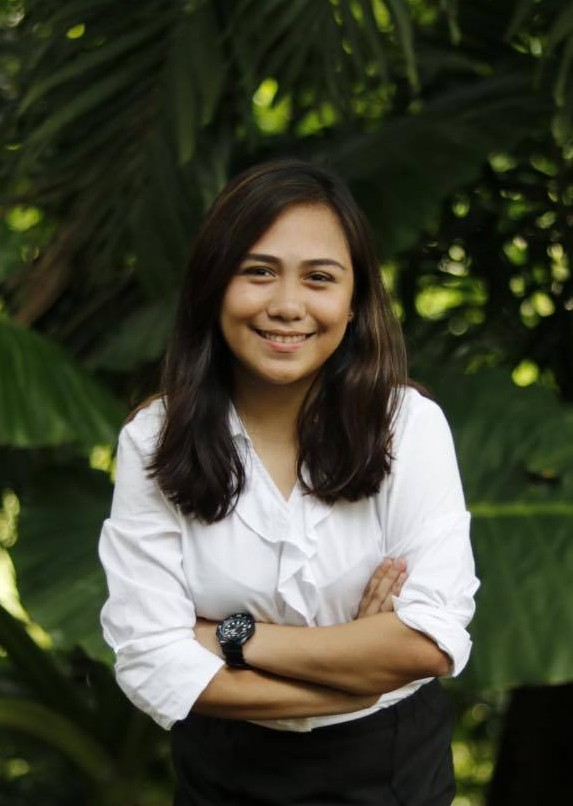
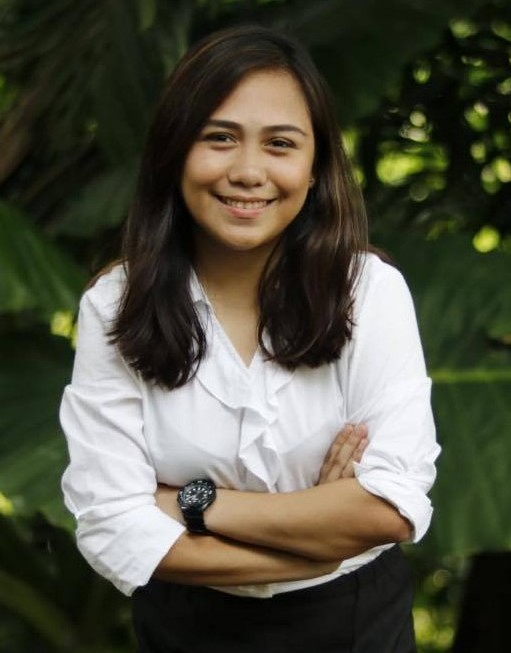
updated image

diff --git a/components/Hero.jsx b/components/Hero.jsx
@@ -46,8 +46,8 @@ const Hero = () => {
           {/* image (no background) */}
           <div className='flex justify-center xl:flex mb-8'>
             <DevImg
-              containerStyles='w-[450px] h-[650px] bg-no-repeat relative bg-bottom'
-              imgSrc='/hero/developer.png'
+              containerStyles='w-[350px] h-[450px] bg-no-repeat relative bg-bottom rounded-lg'
+              imgSrc='/hero/developer.jpg'
             />
           </div>
         </div>
